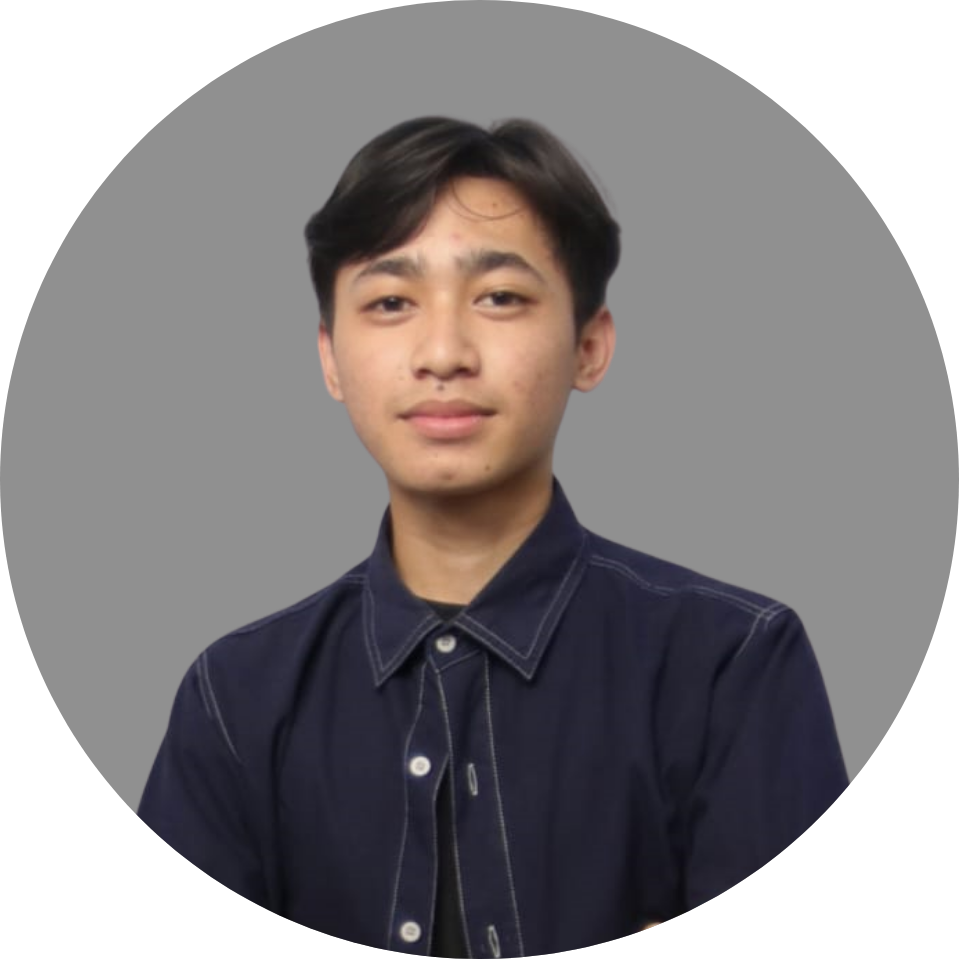
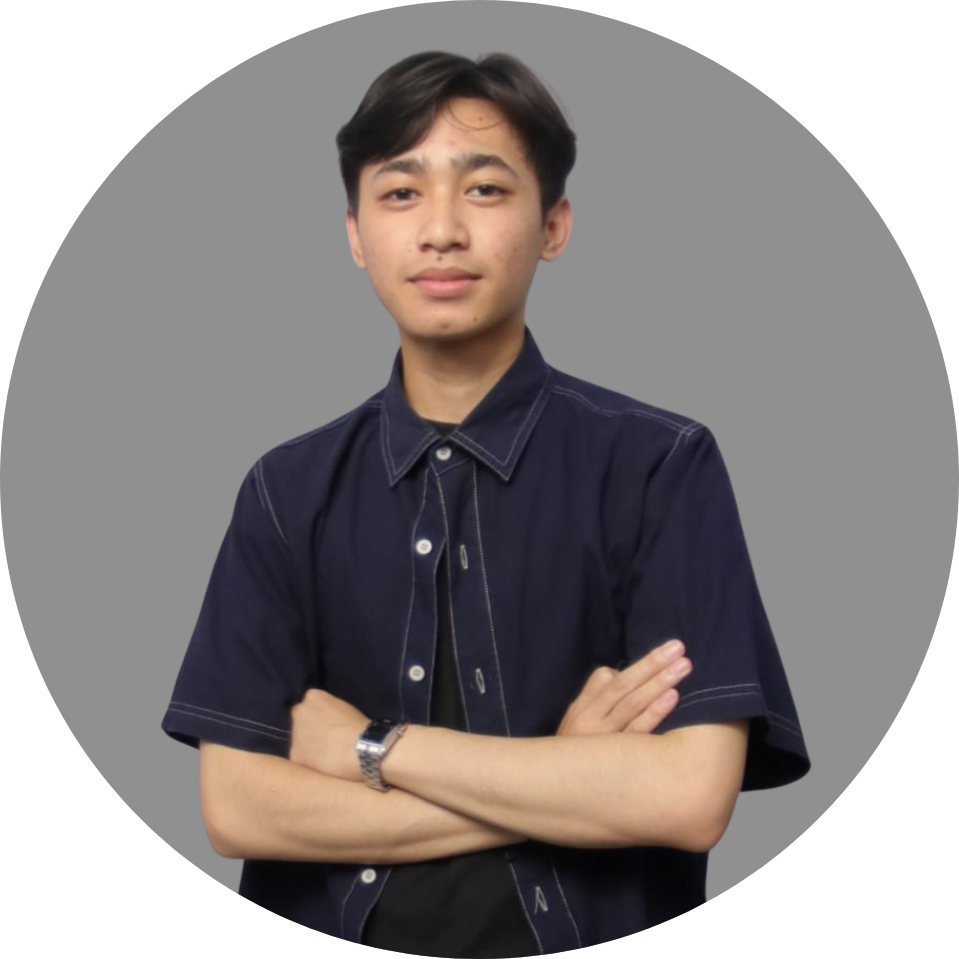
feat: add project 5 - Desa Mekarlaksana website with live laptop mockup

diff --git a/project-detail.html b/project-detail.html
@@ -785,10 +785,25 @@
                 about: `Rancangan sistem backend tangguh menggunakan implementasi algoritma keamanan enkripsi RSA untuk transmisi data informasi sensitif yang aman dan efisien.`,
                 problem: `Kebutuhan akan lapisan keamanan kriptografi yang kuat untuk melindungi data sensitif dalam transmisi antar sistem tanpa ketergantungan pada library pihak ketiga.`,
                 features: ['Implementasi RSA dari scratch menggunakan C++', 'Key pair generation dinamis', 'Enkripsi/dekripsi end-to-end', 'REST API interface untuk integrasi', 'Unit testing komprehensif'],
+                next: 5
+            },
+            5: {
+                title: 'Desa Mekarlaksana — Website Desa & UMKM',
+                year: '2026',
+                category: 'Fullstack & Community',
+                role: 'Lead Developer',
+                num: '05',
+                liveUrl: 'https://desamekarlaksana.netlify.app/',
+                image: '',
+                tech: ['HTML', 'CSS', 'JavaScript', 'PHP', 'MySQL', 'WhatsApp API'],
+                about: `Platform digital resmi Desa Mekarlaksana yang dibangun untuk memperkuat identitas desa secara online dan memberdayakan UMKM lokal agar bisa menjangkau pelanggan lebih luas.`,
+                problem: `Desa membutuhkan kehadiran digital yang representatif untuk mempublikasikan informasi desa, memperkenalkan produk UMKM kepada masyarakat luas, dan memfasilitasi komunikasi langsung antara konsumen dengan pemilik usaha.`,
+                features: ['Profil lengkap desa dan pemerintahan', 'Direktori UMKM dengan produk unggulan', 'Fitur live chat / hubungi langsung ke pemilik UMKM via WhatsApp', 'Desain responsif untuk semua perangkat', 'Integrasi kontak dan lokasi desa'],
                 next: 1
             }
 
         };
+
 
         /* ---- LOAD DATA FROM URL PARAM ---- */
         const params = new URLSearchParams(window.location.search);

diff --git a/index.html b/index.html
@@ -1438,7 +1438,22 @@
                     <span class="wr-arr">→</span>
                 </div>
             </a>
+
+            <a class="work-row rv" href="project-detail.html?id=5" style="transition-delay:.32s" data-cursor="VIEW">
+                <div class="wr-l">
+                    <span class="wr-yr">2026</span>
+                    <div class="wr-nm-block">
+                        <span class="wr-nm">Desa Mekarlaksana — Website Desa & UMKM</span>
+                        <span class="wr-desc">Platform digital desa terintegrasi dengan direktori UMKM, fitur live chat ke pemilik usaha, dan profil lengkap desa untuk mendorong ekonomi lokal.</span>
+                    </div>
+                </div>
+                <div class="wr-r">
+                    <span class="wr-tag">Fullstack &amp; Community</span>
+                    <span class="wr-arr">→</span>
+                </div>
+            </a>
         </div>
+
     </section>
 
     <div class="footer-wave-container" style="background: var(--navy);">
